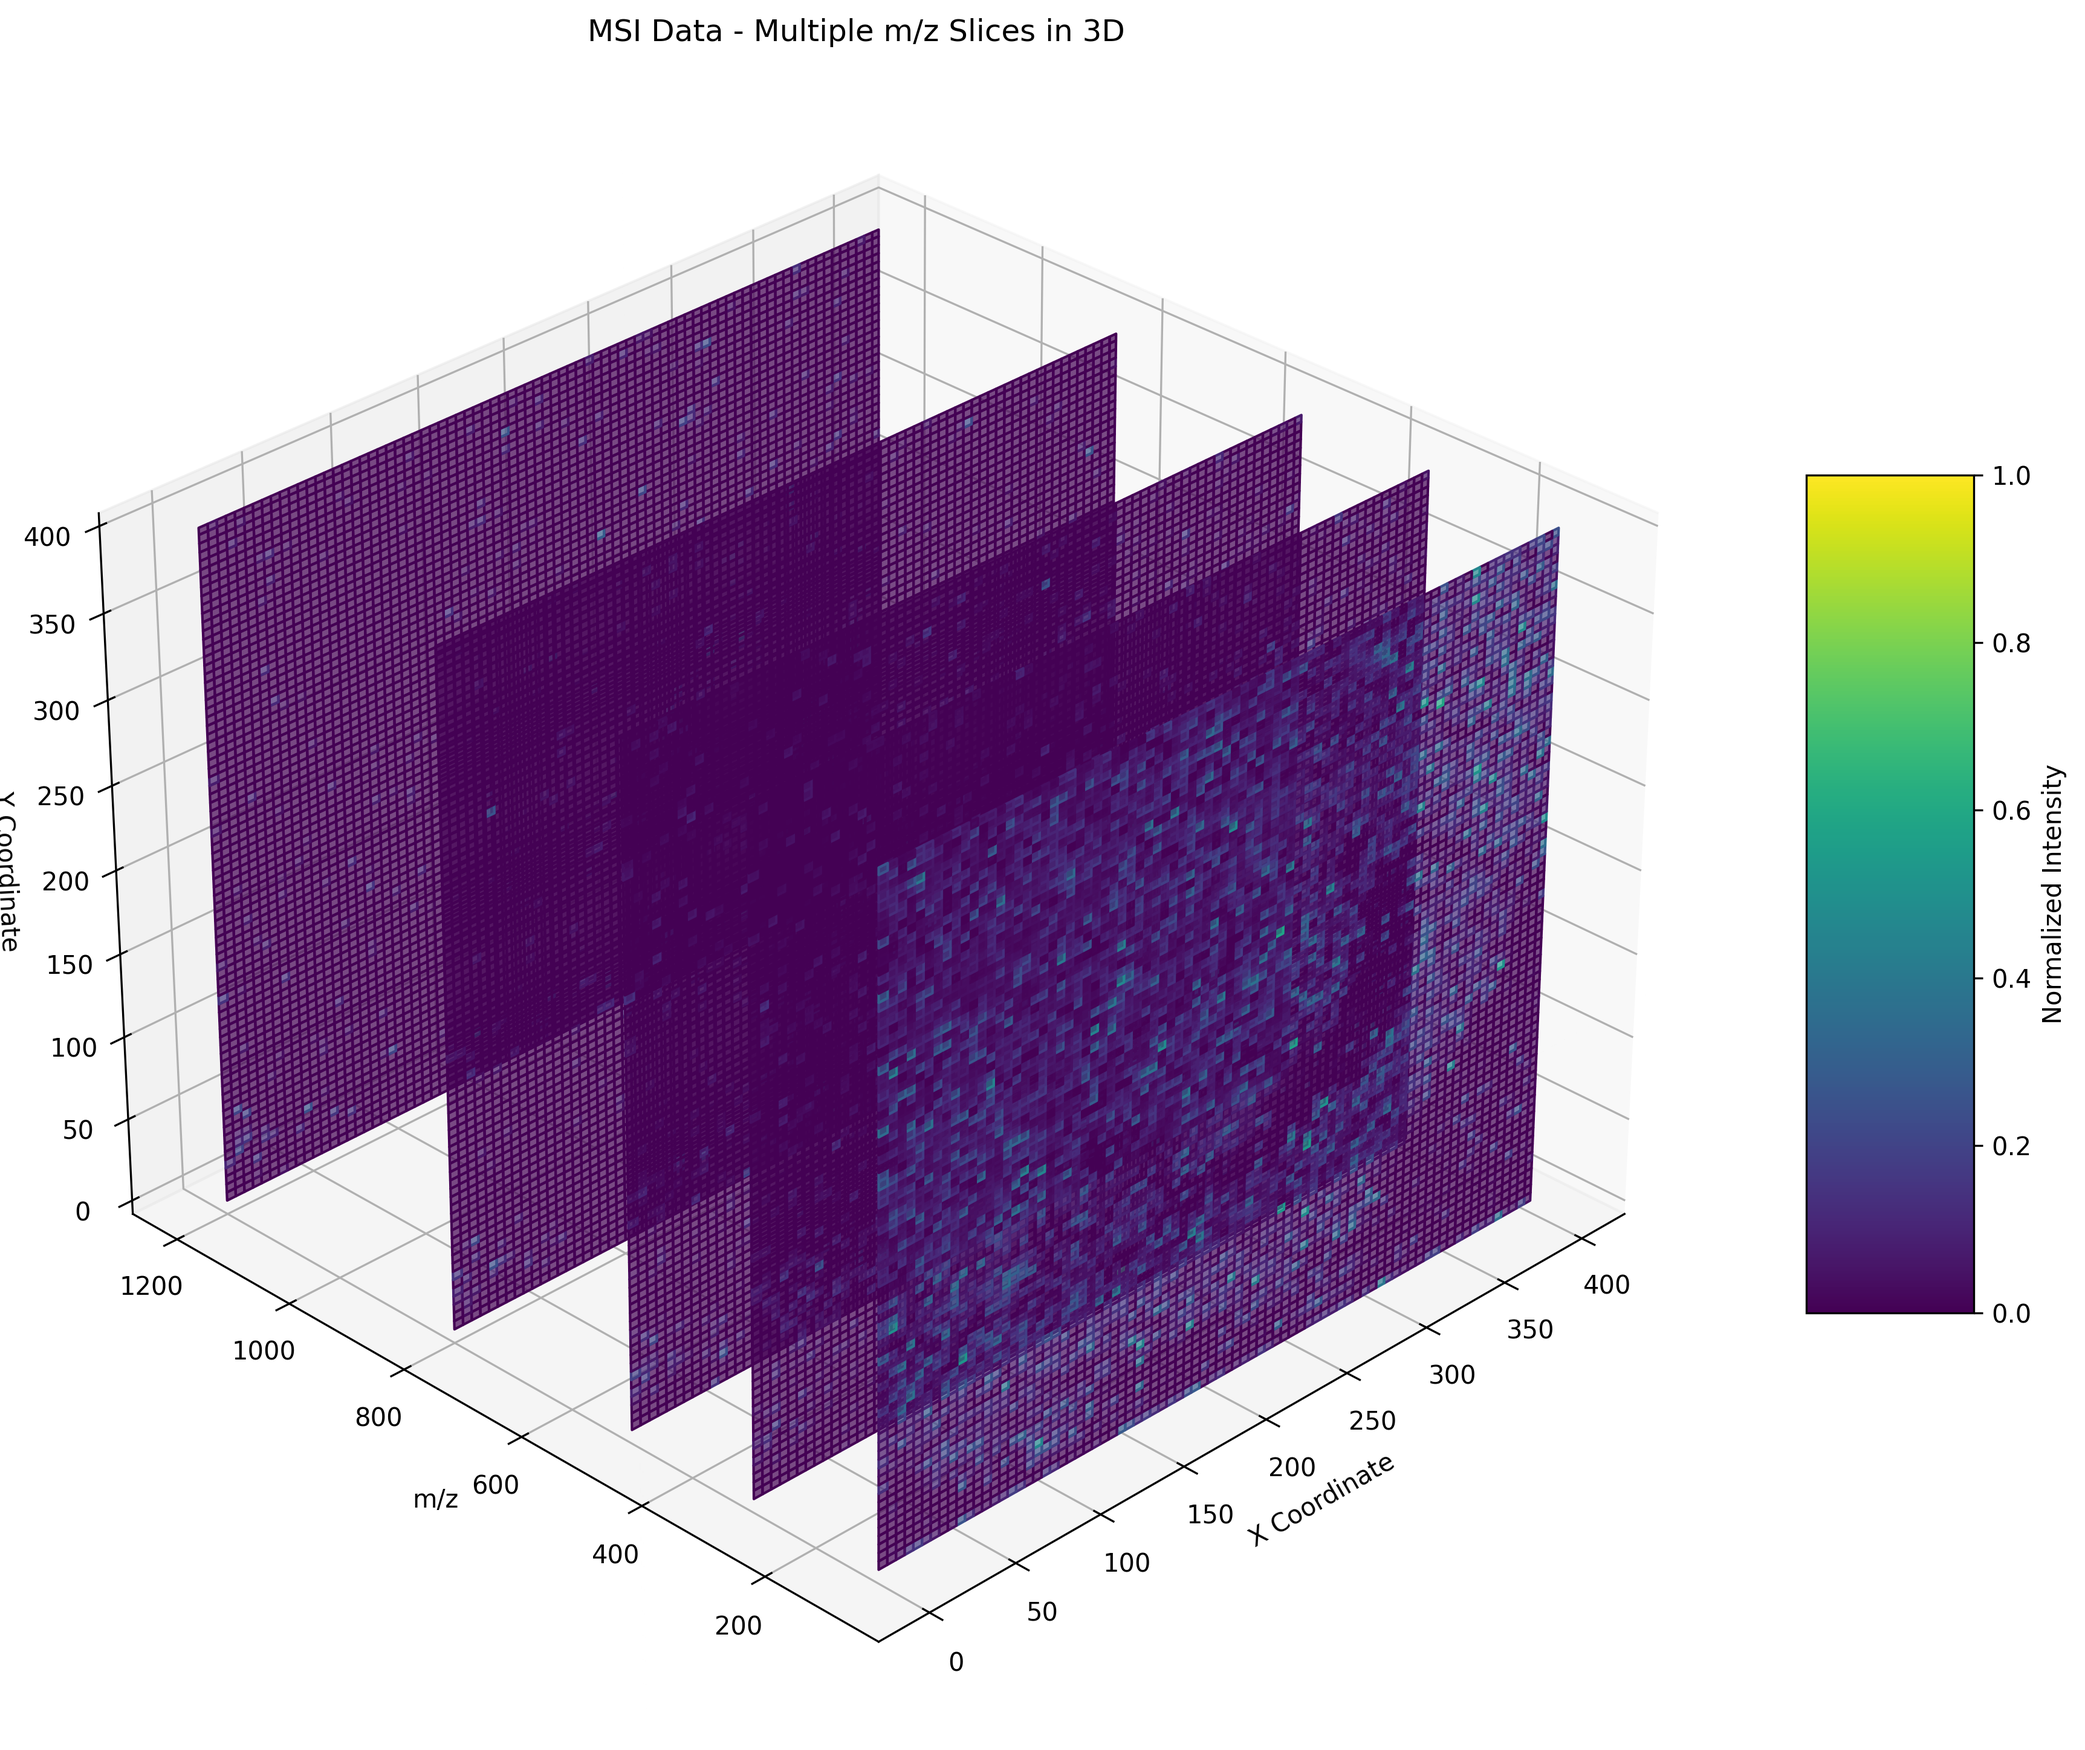
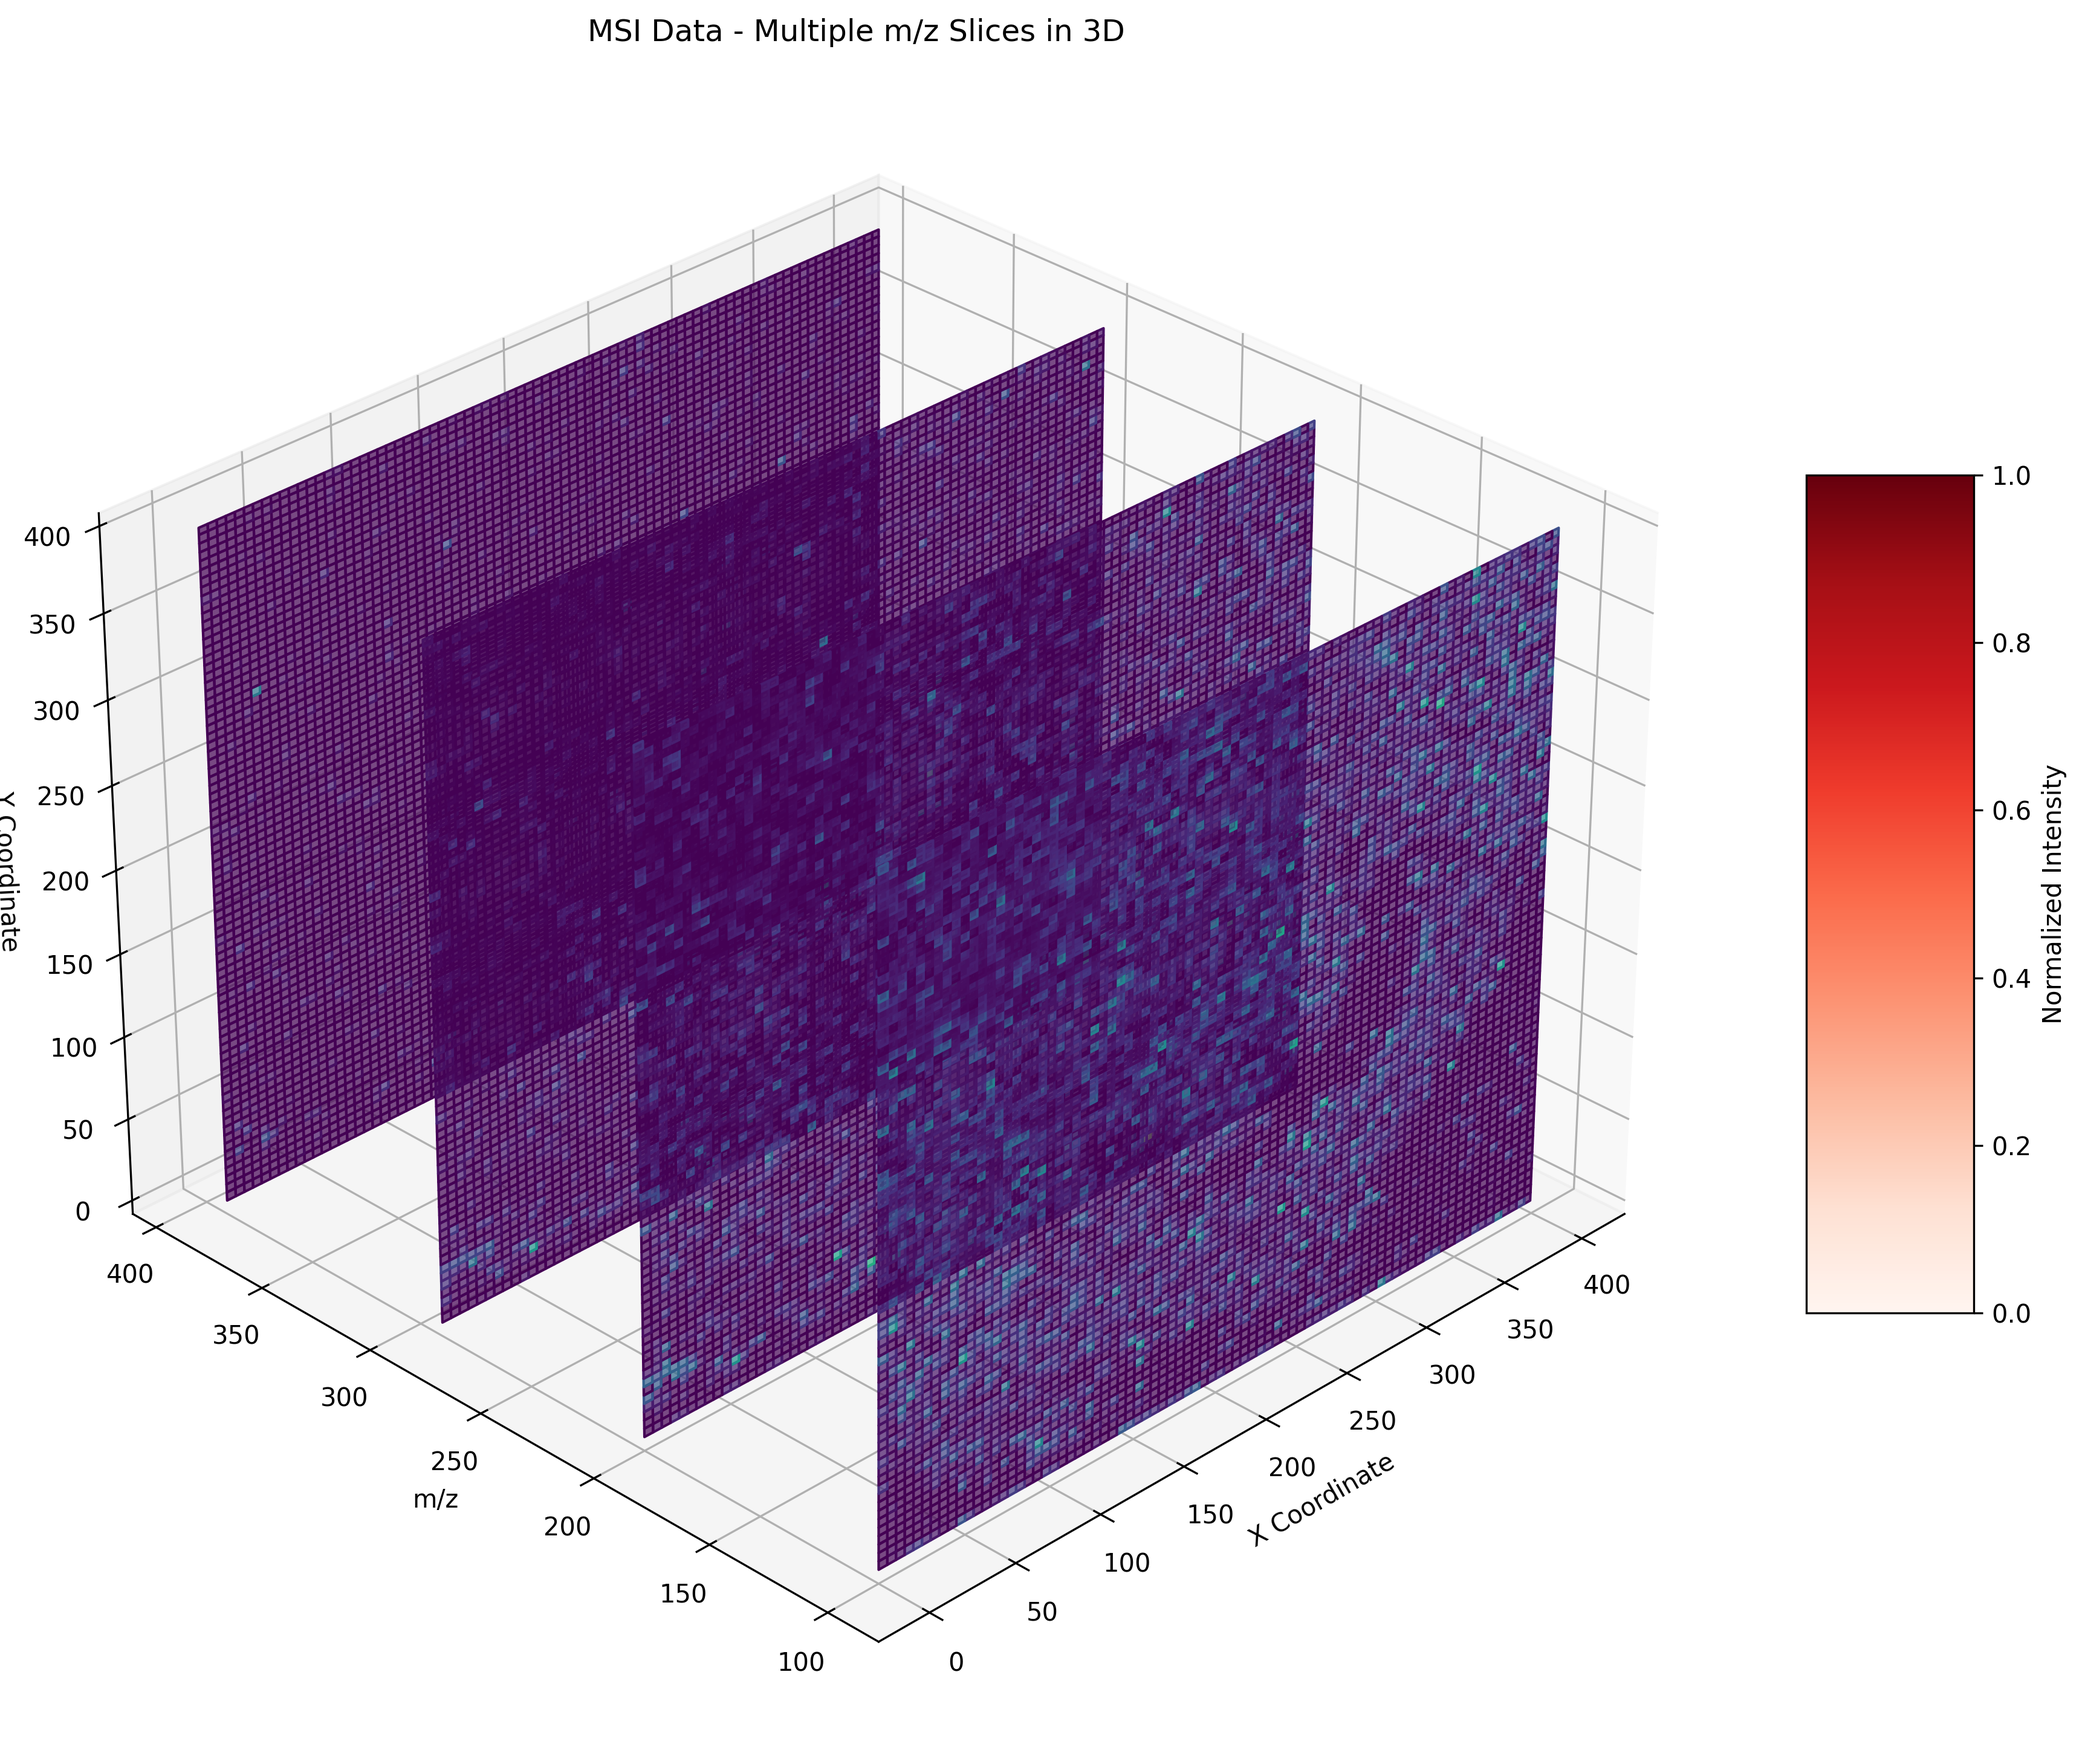
I dont

diff --git a/3D/Plot.py b/3D/Plot.py
@@ -39,7 +39,7 @@ def plot_msi_slices_3d(intensity_data, mz_channels, mz_values_to_plot, spatial_d
                               shade=False)
         # Add colorbar for the last surface
         if mz_target == mz_values_to_plot[-1]:
-            m = plt.cm.ScalarMappable(cmap=plt.cm.viridis)
+            m = plt.cm.ScalarMappable(cmap=plt.cm.Reds)
             m.set_array([0, 1])
             plt.colorbar(m, ax=ax, shrink=0.5, aspect=5, label='Normalized Intensity')
     
@@ -80,7 +80,7 @@ spatial_dims = (400, 400)
 #     intensity_data[:, i] = pattern.flatten()
 
 # mz_channels = np.linspace(100, 1500, num_mz_channels)
-mz_targets = [100, 300, 500, 800, 1200]
+mz_targets = [100,200,290,390]
 fig, ax = plot_msi_slices_3d(intensity_data, mzs, mz_targets, spatial_dims=spatial_dims)
 
 # Save multiple images from different views
